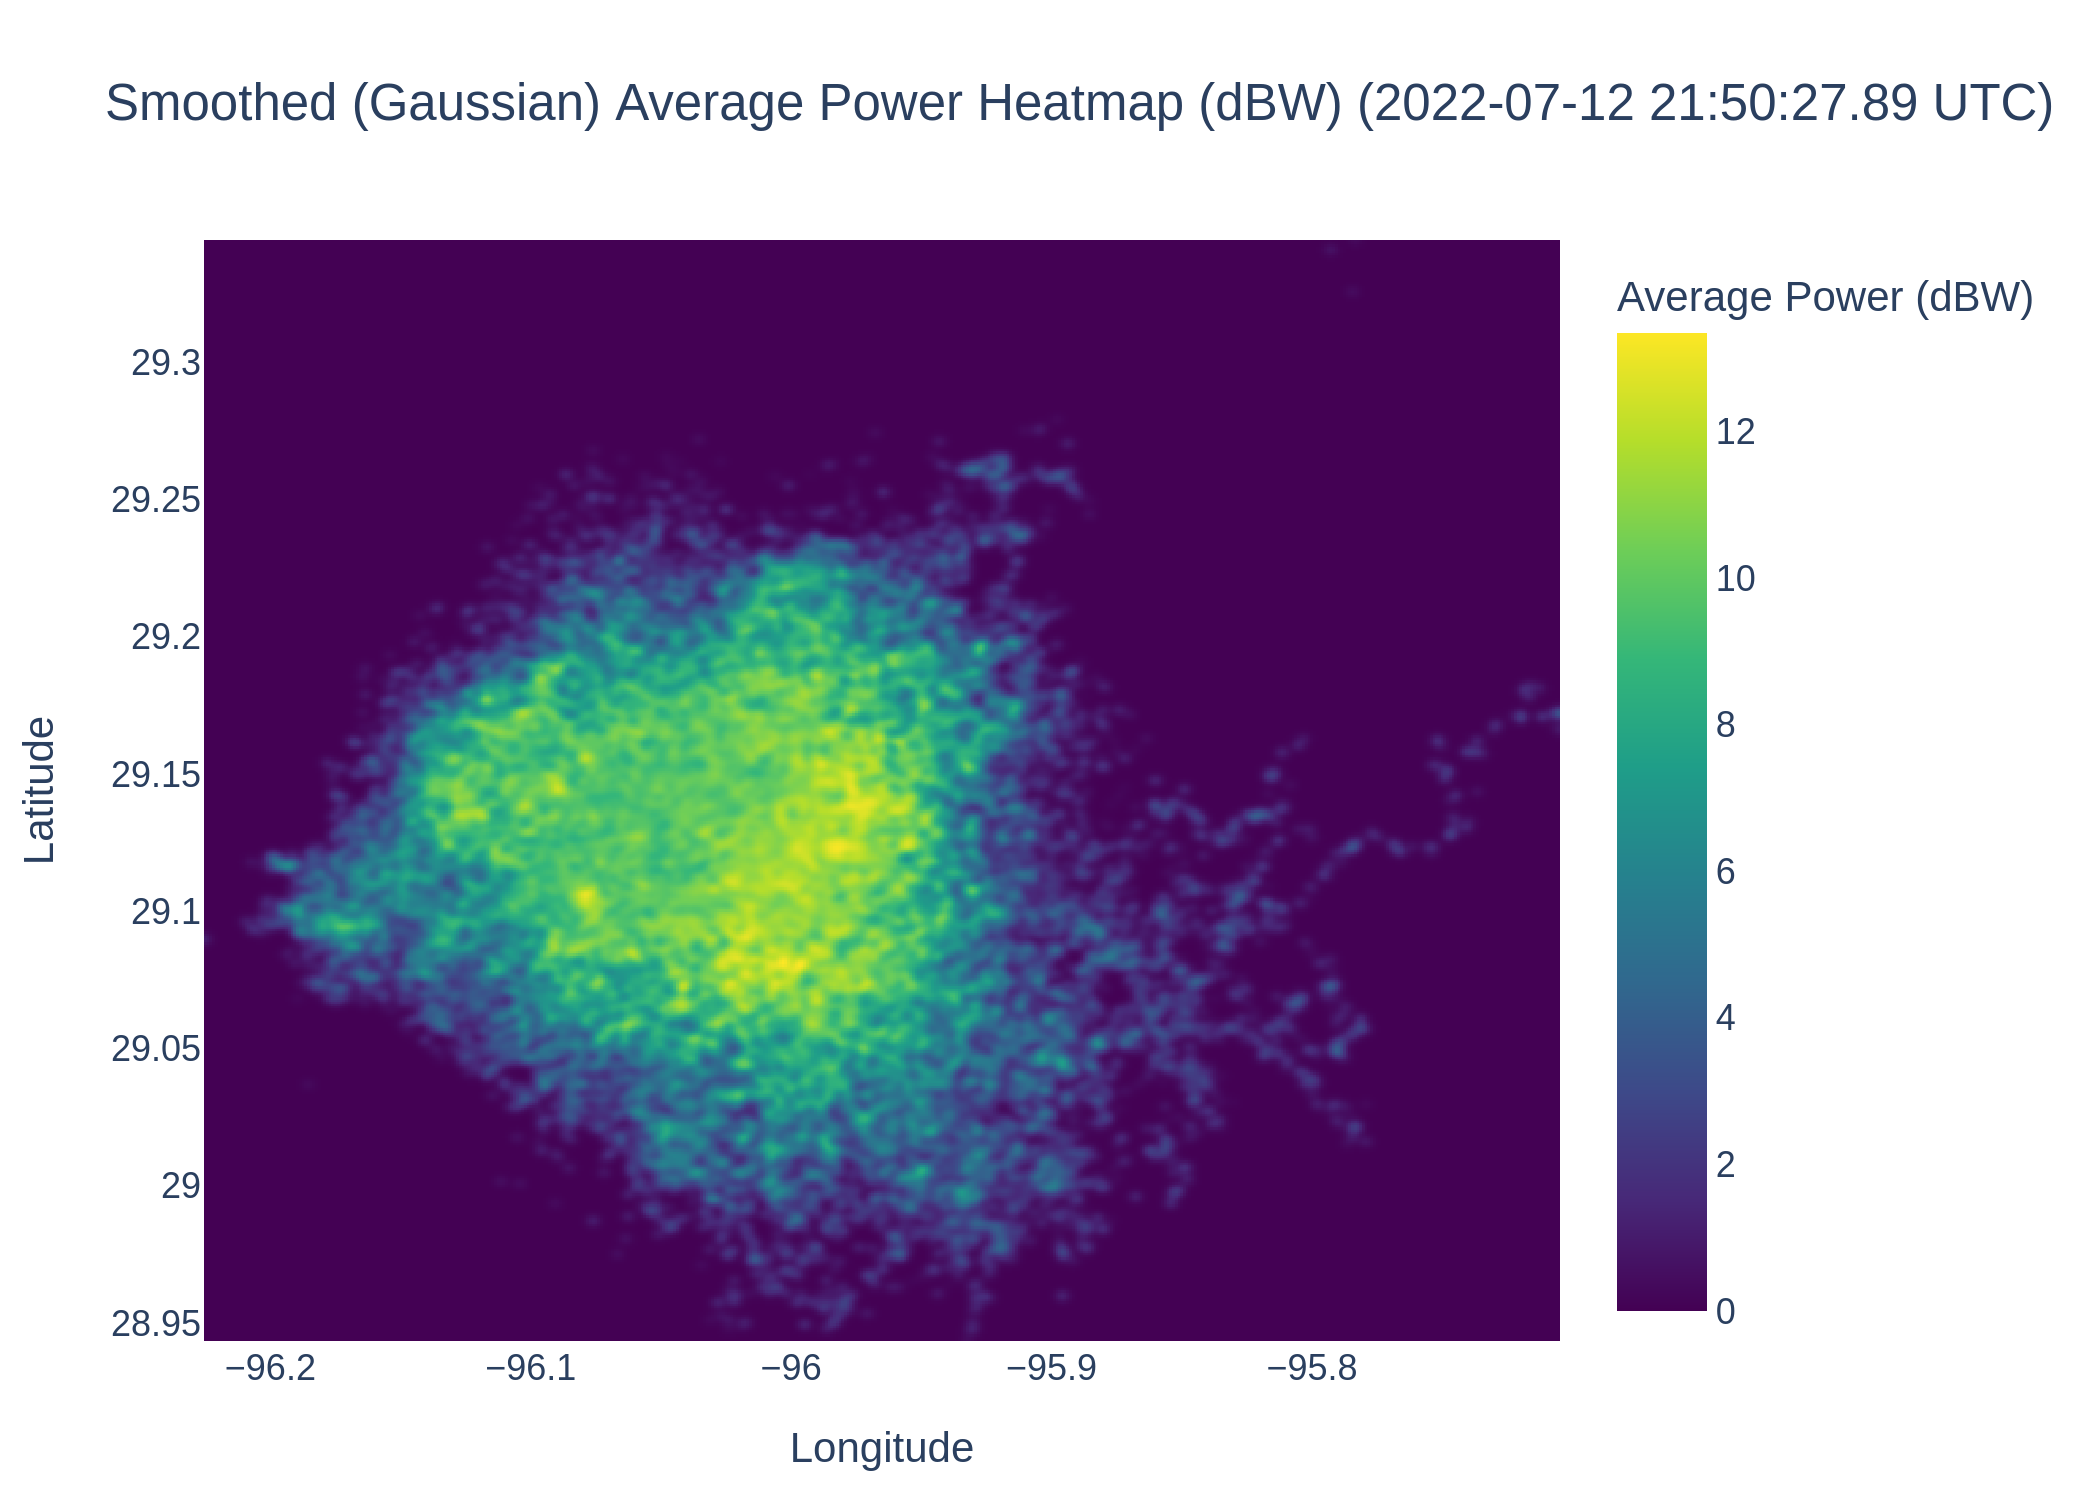
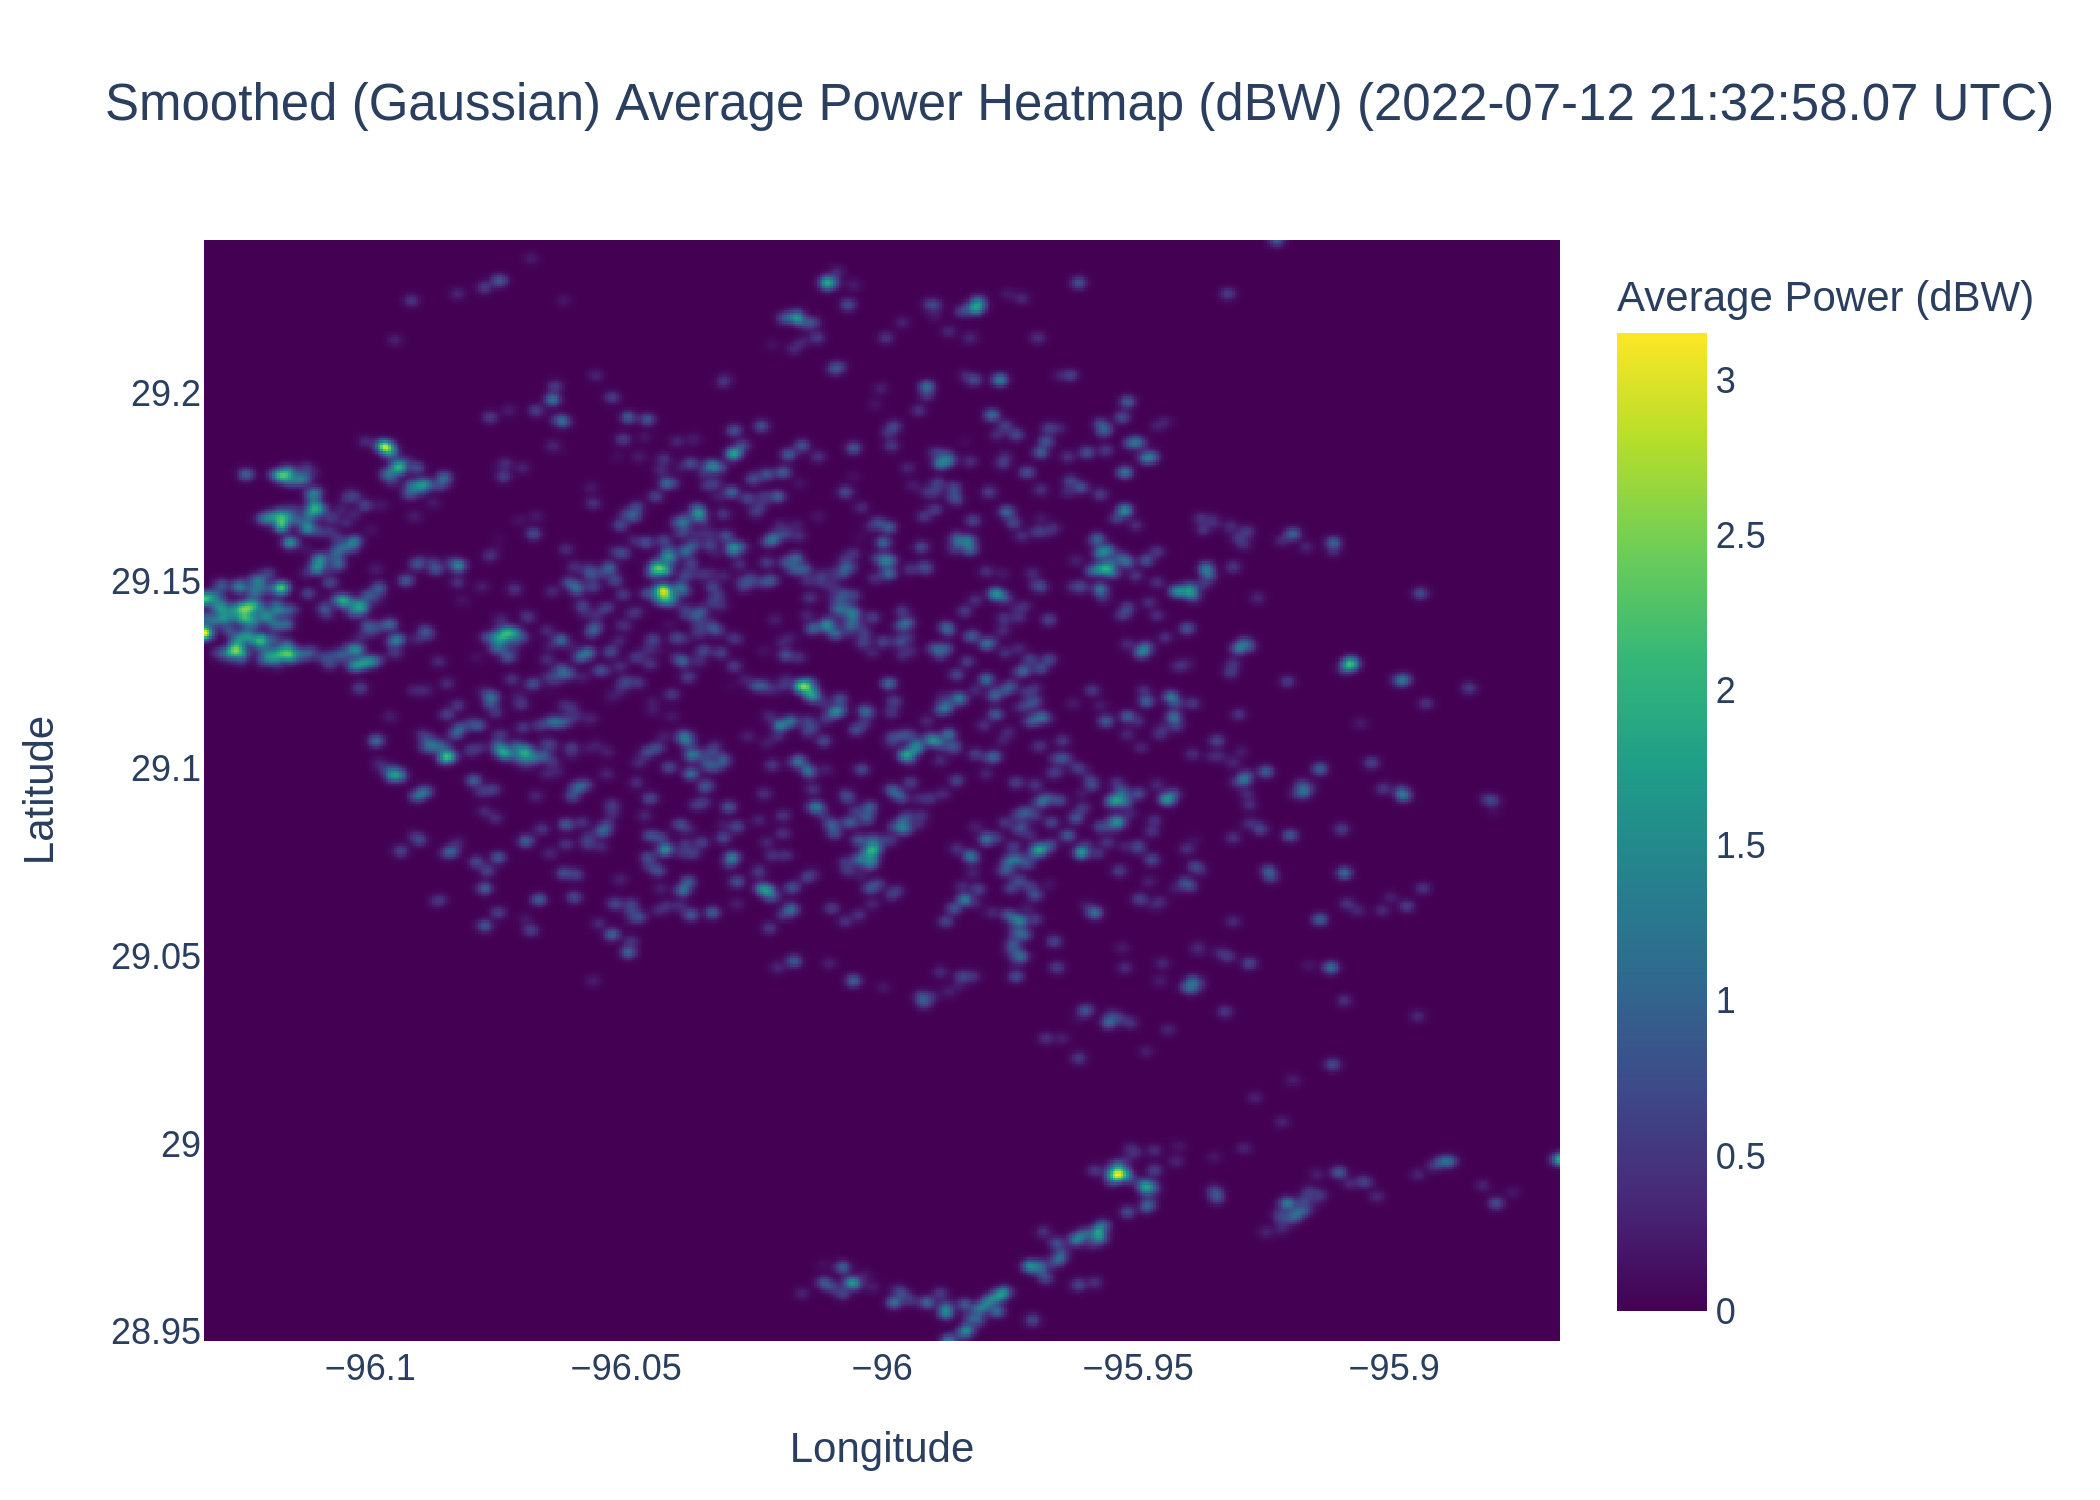
Removed the png and gifs to be replaced

diff --git a/main.py b/main.py
@@ -143,12 +143,12 @@ print(events)
 # Additional parameters that determines "What points make up a single lightning strike"
 # They are explicitly defined
 params = {
-    "max_lightning_dist": 15000,  # meters
-    "max_lightning_speed": 299792.458,  # m/s
-    "min_lightning_speed": 0,  # m/s
-    "min_lightning_points": 800,  # The minimum number of points to pass the minimum amount
-    "max_lightning_time_threshold": 0.5,  # seconds between points
-    "max_lightning_duration": 20, # max seconds that define an entire lightning strike. This prevents data from over-arching to minutes, which is unrealistic
+    "max_lightning_dist": 15000,  # max distance between two points to determine it being involved in the same strike
+    "max_lightning_speed": 299792.458,  # max speed between two points in m/s (essentially dx/dt)
+    "min_lightning_speed": 0,  # min speed between two points in m/s (essentially dx/dt)
+    "min_lightning_points": 800,  # The minimum number of points to pass the system as a "lightning strike"
+    "max_lightning_time_threshold": 0.5,  # max number of seconds between points 
+    "max_lightning_duration": 20, # max seconds that define an entire lightning strike. This is essentially a "time window" for all of the points to fill the region that determines a "lightning strike"
 }
 
 lightning_bucketer.USE_CACHE = True  # Generate cache of result to save time for future identical (one-to-one exact) requests
@@ -177,7 +177,7 @@ bucketed_strikes_indeces = lightning_bucketer.bucket_dataframe_lightnings(
 
 
 # Sort the bucketed strikes indices by the length of each sublist in descending order.
-# (Strikes with points first)
+# (Strikes with most points first)
 bucketed_strikes_indeces_sorted = sorted(
     bucketed_strikes_indeces, key=len, reverse=True
 )
@@ -192,6 +192,15 @@ bucketed_strikes_indeces_sorted = sorted(
 #   sub_strike = events.iloc[bucketed_strikes_indeces_sorted[i]]
 #   # Process the dataframe however you please of the designated lightning strike
 # ```
+
+# Sort the bucketed strikes indices by strongest power.
+# Here, for each strike, we compute the maximum 'power' value from the corresponding events,
+# and sort in descending order so that the strike with the highest power comes first.
+bucketed_strikes_indeces_sorted_by_power = sorted(
+    bucketed_strikes_indeces,
+    key=lambda strike: events.loc[strike, "power"].max(),
+    reverse=True
+)
 
 print(f"Number of strikes matching criteria: {len(bucketed_strikes_indeces_sorted)}")
 
@@ -234,9 +243,15 @@ lightning_plotters.plot_all_strikes(
 
 
 print("Exporting largest instance on file")
-# Just plot the largest instance
-lightning_plotters.plot_avg_power_map(bucketed_strikes_indeces_sorted[0], events)
+# Exporting most points
+largest_strike = bucketed_strikes_indeces_sorted[0]
+lightning_plotters.plot_avg_power_map(largest_strike, events, output_filename="most_pts.png")
+lightning_plotters.generate_strike_gif(largest_strike, events, output_filename="most_pts.gif")
 
-lightning_plotters.generate_strike_gif(bucketed_strikes_indeces_sorted[0], events)
+# Exporting strongest power
+strongest_power_strike = bucketed_strikes_indeces_sorted_by_power[0]
+lightning_plotters.plot_avg_power_map(strongest_power_strike, events, output_filename="strongest_power.png")
+lightning_plotters.generate_strike_gif(strongest_power_strike, events, output_filename="strongest_power.gif")
+
 
 print("Finished generating plots")
